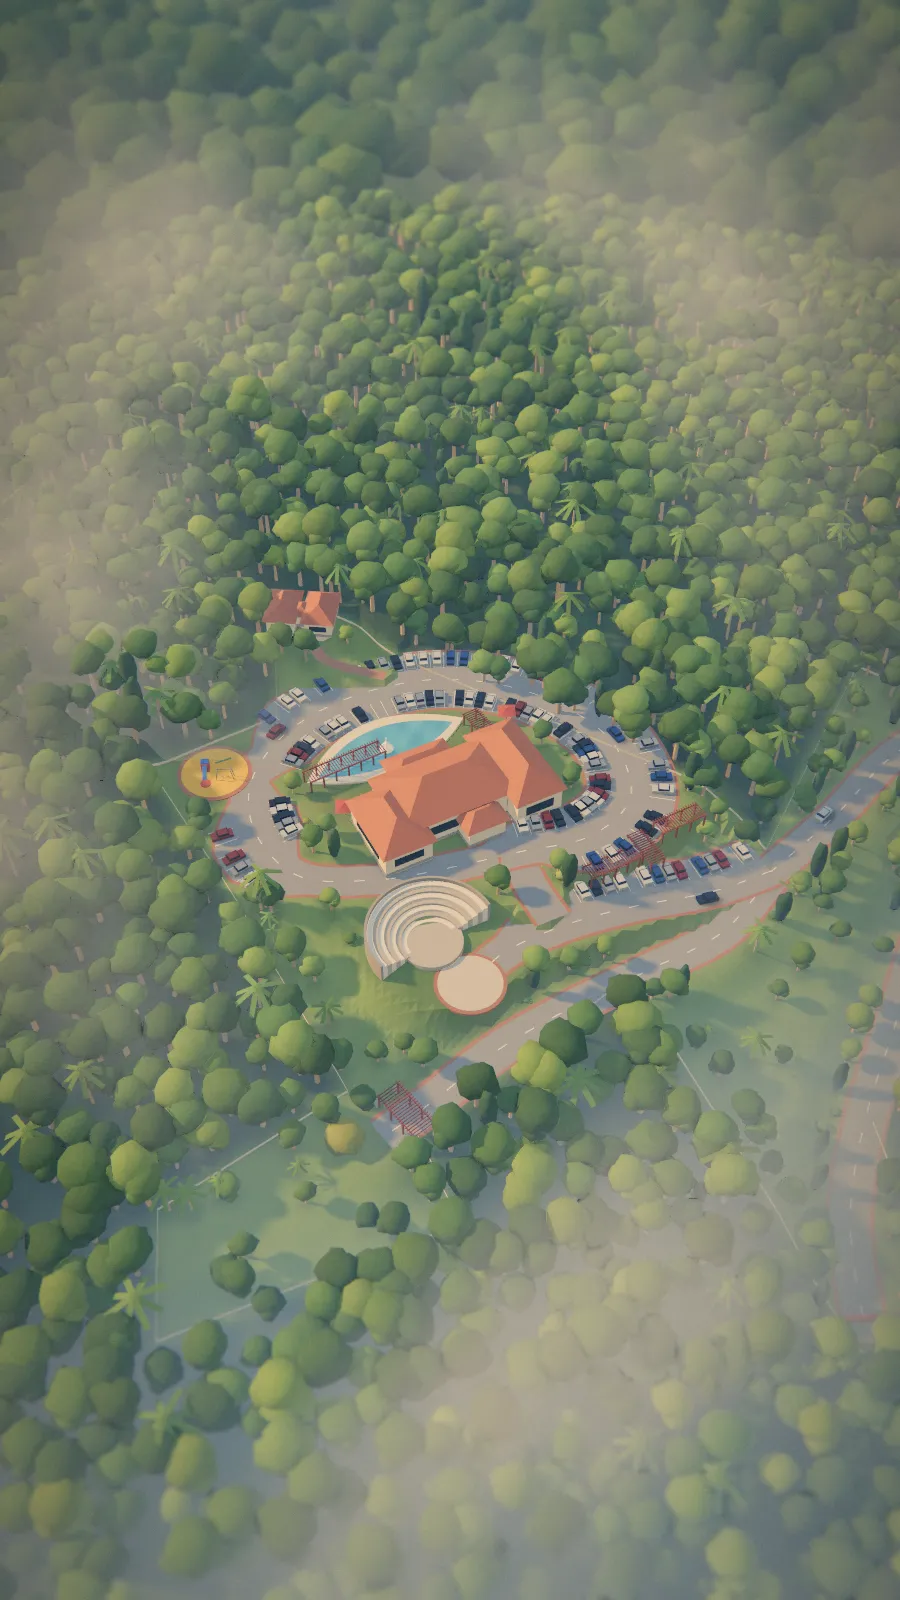
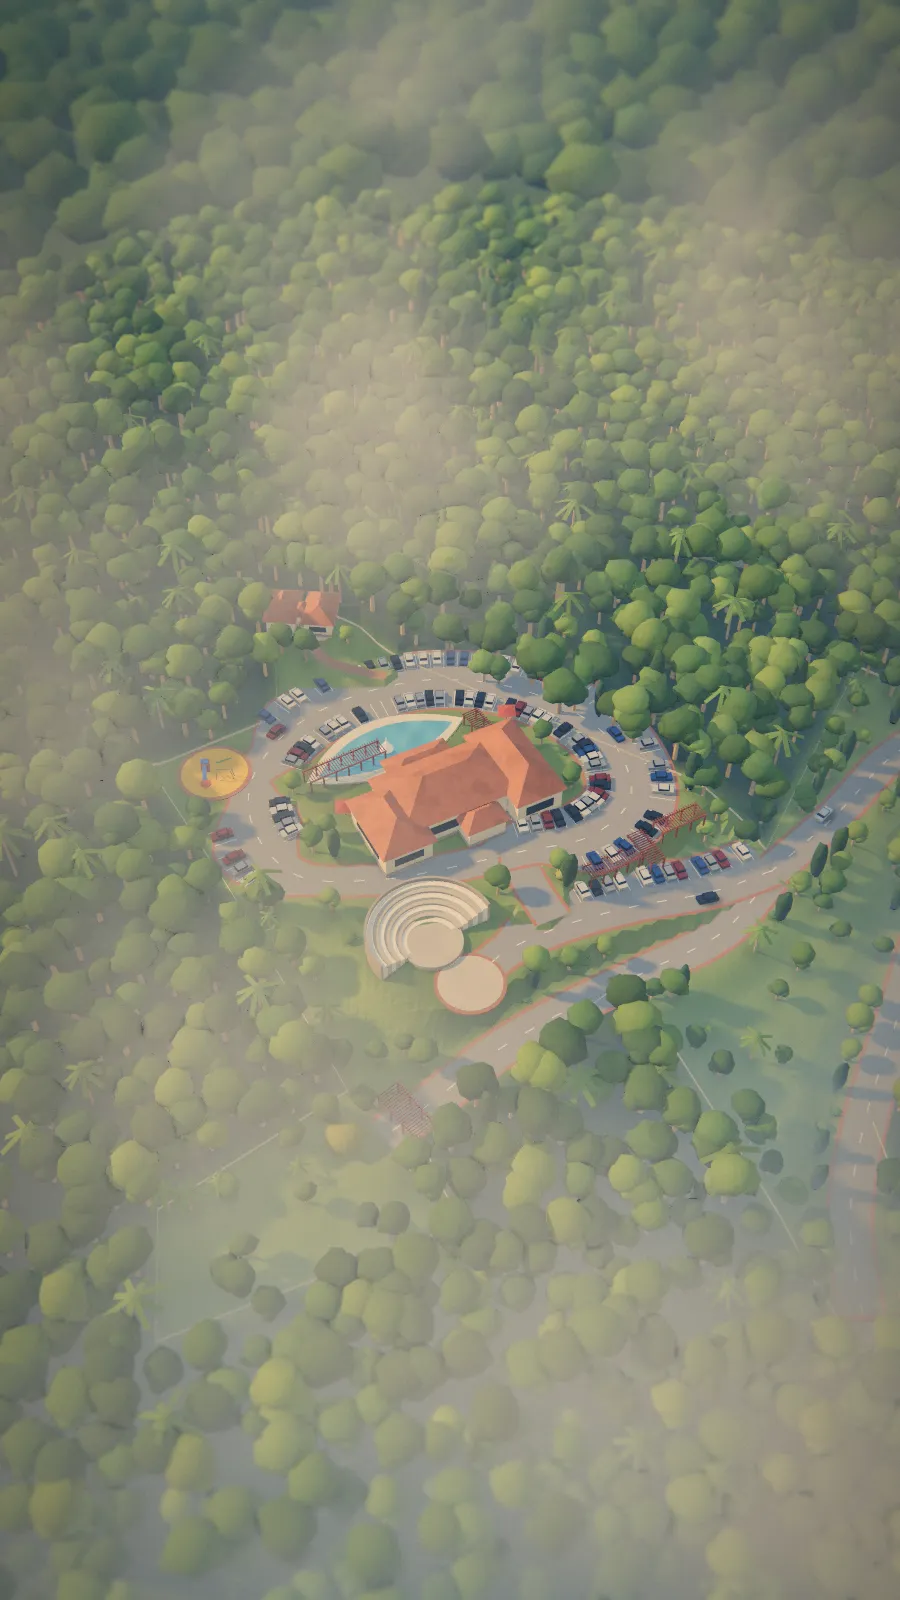
R1.3: procedural building weathering
- New weathering shader (weathering.js): patchy fading, rain streaks
  and ground grime on walls; tile variation and moss on roofs; mottled
  stone and paving; a slight cast per building. Materials are listed by
  name in CONFIG.weathering
- Hotspots: material clones keep their shader patches (weathering,
  foliage wind) instead of silently dropping them
- Poster images re-rendered
- Plan 2 document: R1 complete

diff --git a/src/hero/weathering.js b/src/hero/weathering.js
@@ -1,0 +1,88 @@
+import { CONFIG } from './config.js';
+
+/**
+ * Weathering for flat-coloured building materials (chosen by material name in CONFIG.weathering), so walls
+ * and roofs stop looking freshly painted:
+ *  - walls: broad patchy fading, faint rain streaks, and splash-back grime rising from the ground
+ *  - roofs: tile-to-tile colour variation, faint tile courses, patches of dark moss / staining
+ *  - stone & paving: mottling, fine speckle, grime at the foot of walls
+ *  - every building also gets its own slight warm / cool, lighter / darker cast
+ * All procedural in the fragment shader from world position (no textures or UVs), on every tier.
+ * Fine detail fades out with distance, so the aerial view does not shimmer.
+ * Textured artist materials should not be listed: their weathering is painted into the textures.
+ */
+const KIND = { wall: 0, roof: 1, stone: 2 };
+
+export function createWeathering() {
+  const W = CONFIG.weathering;
+  const kindOf = new Map();
+  if (W?.amount > 0) for (const k of Object.keys(KIND)) for (const name of W[k] ?? []) kindOf.set(name, k);
+  const patched = new Map(); // material.uuid -> patched clone
+
+  function patch(material) {
+    if (patched.has(material.uuid)) return patched.get(material.uuid);
+    const kind = KIND[kindOf.get(material.name)], A = Number(W.amount).toFixed(3);
+    const mat = material.clone();
+    mat.onBeforeCompile = (shader) => {
+      shader.vertexShader = shader.vertexShader
+        .replace('#include <common>', '#include <common>\nvarying vec3 vWxPos; varying float vWxBase; varying float vWxTint;')
+        .replace('#include <project_vertex>', `#include <project_vertex>
+          vWxPos = (modelMatrix * vec4(transformed, 1.0)).xyz;
+          vWxBase = modelMatrix[3].y;                                              // the building's ground level
+          vWxTint = fract(sin(dot(modelMatrix[3].xz, vec2(12.9898, 78.233))) * 43758.5453); // one random value per building`);
+      shader.fragmentShader = shader.fragmentShader
+        .replace('#include <common>', `#include <common>
+          varying vec3 vWxPos; varying float vWxBase; varying float vWxTint;
+          float wxHash(vec2 p) { return fract(sin(dot(p, vec2(127.1, 311.7))) * 43758.5453); }
+          float wxNoise(vec2 p) {
+            vec2 i = floor(p), f = fract(p);
+            f = f * f * (3.0 - 2.0 * f);
+            return mix(mix(wxHash(i), wxHash(i + vec2(1.0, 0.0)), f.x), mix(wxHash(i + vec2(0.0, 1.0)), wxHash(i + vec2(1.0, 1.0)), f.x), f.y);
+          }`)
+        .replace('#include <color_fragment>', `#include <color_fragment>
+          {
+            vec3 p = vWxPos;
+            float h = p.y - vWxBase;                                   // metres above the building's ground level
+            float px = length(fwidth(p));                              // metres covered by one pixel
+            float near = 1.0 - smoothstep(0.08, 0.3, px);              // fine detail only when close enough to resolve it
+            float broad = wxNoise(p.xz * 0.2 + p.y * 0.13);
+            float fine = wxNoise(p.xz * 5.0 + p.y * 4.0);
+            vec3 c = diffuseColor.rgb;
+            #if ${kind} == 0
+              float streak = 0.5 * (wxNoise(vec2(p.x * 2.3, p.y * 0.22)) + wxNoise(vec2(p.z * 2.3 + 7.0, p.y * 0.22 + 3.0)));
+              float splash = 1.0 - smoothstep(0.2, 1.3 + broad * 0.9, h);
+              c *= 1.0 + (broad - 0.5) * 0.16 * ${A};
+              c = mix(c, c * vec3(0.80, 0.78, 0.72), smoothstep(0.48, 0.76, streak) * 0.4 * ${A});
+              c = mix(c, c * vec3(0.64, 0.57, 0.47), splash * 0.5 * ${A});
+              c *= 1.0 + (fine - 0.5) * 0.06 * near * ${A};
+            #elif ${kind} == 1
+              float tiles = wxNoise(p.xz * 1.1);
+              float courses = 0.5 + 0.5 * sin(p.y * 20.0);
+              float moss = smoothstep(0.56, 0.86, wxNoise(p.xz * 0.33 + 11.0));
+              c *= 1.0 + ((tiles - 0.5) * 0.22 + (broad - 0.5) * 0.12) * ${A};
+              c *= 1.0 + ((fine - 0.5) * 0.12 - courses * 0.07) * near * ${A};
+              c = mix(c, c * vec3(0.52, 0.58, 0.44), moss * 0.42 * ${A});
+            #else
+              float foot = 1.0 - smoothstep(0.0, 0.5 + broad * 0.4, h);
+              c *= 1.0 + (broad - 0.5) * 0.18 * ${A} + (fine - 0.5) * 0.08 * near * ${A};
+              c = mix(c, c * vec3(0.7, 0.66, 0.58), foot * 0.3 * ${A});
+            #endif
+            // per-building cast: slightly lighter / darker and warmer / cooler
+            c *= (1.0 + (vWxTint - 0.5) * 0.09 * ${A}) * mix(vec3(1.02, 1.0, 0.97), vec3(0.98, 1.0, 1.03), fract(vWxTint * 7.3));
+            diffuseColor.rgb = c;
+          }`);
+    };
+    mat.customProgramCacheKey = () => `weathering-${kind}-${A}`;
+    patched.set(material.uuid, mat);
+    return mat;
+  }
+
+  /** Apply to every mesh under `root` whose material is listed in CONFIG.weathering. */
+  function apply(root) {
+    if (!kindOf.size) return;
+    root.traverse((o) => {
+      if (o.isMesh && o.material?.isMeshStandardMaterial && kindOf.has(o.material.name)) o.material = patch(o.material);
+    });
+  }
+  return { apply };
+}

diff --git a/src/hero/app.js b/src/hero/app.js
@@ -14,6 +14,7 @@ import { capturePresets, savePosters } from './capture.js';
 import { createFoliage } from './foliage.js';
 import { createPost } from './post.js';
 import { createTraffic, createBirds } from './life.js';
+import { createWeathering } from './weathering.js';
 
 /**
  * The interactive 3D hero. Loaded on demand by main.js (after the WebGL / data-saver checks and the
@@ -28,6 +29,7 @@ export async function startHero({ hero, page, onProgress = () => {}, onStatus = 
   const mist = createMist(scene);
   createRidges(scene);
   const foliage = createFoliage(lights.sun);
+  const weathering = createWeathering();
   const post = createPost(renderer, scene, camera);
   onResize((w, h) => post.setSize(w, h));
   const perf = createPerformance(renderer, stage, { onPixelRatio: () => post.setSize(stage.clientWidth, stage.clientHeight) });
@@ -40,6 +42,7 @@ export async function startHero({ hero, page, onProgress = () => {}, onStatus = 
 
   const site = await loadSite(renderer, (p) => onProgress(p * 0.8));
   foliage.apply(site.root);
+  weathering.apply(site.root);
   scene.add(site.root);
   const heightAt = createHeightSampler(site.terrain);
   const traffic = createTraffic(scene, site, heightAt, lights.sun);
@@ -104,6 +107,7 @@ export async function startHero({ hero, page, onProgress = () => {}, onStatus = 
   if (site.hasExtras) {
     site.loadExtras(async (part) => {
       foliage.apply(part);
+      weathering.apply(part);
       await renderer.compileAsync(part, camera, scene); // compile off-screen first, so adding it doesn't hitch
       scene.add(part);
       renderer.shadowMap.needsUpdate = true;

diff --git a/src/hero/config.js b/src/hero/config.js
@@ -131,6 +131,14 @@ export const CONFIG = {
   // heightFalloff: metres over which the distance haze thins with altitude.
   // valley: ground-hugging mist below `top` (world Y), fading over `falloff` metres, thickening over `reach` metres of view distance.
   atmosphere: { heightFalloff: 140, valley: { top: -10, falloff: 6, reach: 260 }, ridges: true },
+  // Procedural weathering for flat-coloured building materials, listed by material name (see weathering.js).
+  // amount: 0 = off, 1 = normal. Leave textured artist materials out: their weathering belongs in the textures.
+  weathering: {
+    amount: 1,
+    wall: ['Wall_Plaster'],
+    roof: ['Roof_Tile'],
+    stone: ['Wall_Stone', 'Amphi_Seat', 'Amphi_Stage', 'Pool_Deck', 'Paving_Plaza'],
+  },
   // Sun shadows on the ultra / high tiers are sharp where an object meets the ground and blur with distance from it.
   // softness = metres of blur per metre between the object and its shadow (the real sun is ~0.01; haze makes it look wider),
   // maxBlur = widest blur in metres. Samples per tier: QUALITY.softShadows [blocker search, filter]. Phones keep plain soft shadows.

diff --git a/src/hero/hotspots.js b/src/hero/hotspots.js
@@ -22,7 +22,13 @@ export function createHotspots({ camera, dom, hero, site, rig, heightAt }) {
     object.traverse((o) => {
       if (!o.isMesh) return;
       if (!own.has(o.material)) {
-        const m = o.material.name?.startsWith('Water') || !o.material.emissive ? o.material : o.material.clone();
+        let m = o.material;
+        if (!m.name?.startsWith('Water') && m.emissive) {
+          m = o.material.clone();
+          // clone() drops shader patches (weathering, foliage wind): carry them over
+          m.onBeforeCompile = o.material.onBeforeCompile;
+          m.customProgramCacheKey = o.material.customProgramCacheKey;
+        }
         own.set(o.material, m);
       }
       o.material = own.get(o.material);

diff --git a/docs/IMPLEMENTATION_PLAN_2.md b/docs/IMPLEMENTATION_PLAN_2.md
@@ -11,7 +11,7 @@ while keeping the hero fast (target: 60 fps desktop, 30+ fps mid phones, ≤ 6 M
 | Phase | Owner | Status | Summary |
 |---|---|---|---|
 | R0 Ready for an artist model | Code | ✅ 6 · ⏸ 1 | Any terrain shape, split files, foliage shader, KTX2, lightmaps, validator page. R0.7 (re-tune camera) waits for the artist's model. |
-| R1 Colour & tone | Code | ✅ 4 · 🟡 1 | AgX, real-world palette, tree tints, colour grade, three looks. Building weathering left to the artist. |
+| R1 Colour & tone | Code | ✅ 5 | AgX, real-world palette, tree tints, procedural building weathering, colour grade, three looks. |
 | R2 Lighting & sky | Code | ✅ 5 | Procedural sky reflections, fitted shadows that soften with distance, contact shadows, baked ground shade. |
 | R3 Camera effects | Code | ✅ 5 | Bloom, tilt-shift, vignette, grain, colour fringe; phones keep grade + vignette + grain. |
 | R4 Atmosphere | Code | ✅ 3 · ➖ 1 | Distance haze, valley mist, softer mist banks, horizon ridges. Sun shafts skipped. |
@@ -21,7 +21,7 @@ while keeping the hero fast (target: 60 fps desktop, 30+ fps mid phones, ≤ 6 M
 | R8 Life & motion | Code | ✅ 4 | Spline fly-in (skippable), drifting cloud shadows, moving cars and birds, settling camera moves. |
 | R9 Pipeline & performance | Both | ✅ 2 · 🟡 2 · ⏳ 1 · 🎨 1 | Poster image and three benchmark-picked tiers done; load size checked. Build script (needs Node.js), real-phone test and Lighthouse pending. |
 
-**Task count:** 29 done · 5 partial · 2 pending (code) · 17 pending (artist) · 1 waiting · 1 not built — 55 tasks in total.
+**Task count:** 30 done · 4 partial · 2 pending (code) · 17 pending (artist) · 1 waiting · 1 not built — 55 tasks in total.
 
 ### Completed so far (R0–R4, R8, R9.4, R9.5)
 - The page accepts an artist-built model without code changes, and `tools/validate-model.html` checks a model against the brief.
@@ -43,7 +43,6 @@ while keeping the hero fast (target: 60 fps desktop, 30+ fps mid phones, ≤ 6 M
 - **R5** Textured terrain, roads and paving, soft edges, rocks.
 - **R6** Leaf-card trees and palms with LODs, natural placement, hedges and flower beds.
 - **R7** Detailed convention centre, prayer hall and cabin, PBR materials, pool shell, amphitheatre, play equipment, site furniture, realistic cars.
-- **R1.3** Building weathering (comes with the textures).
 - **R9.3** Texture budget; exporting with Draco + WebP.
 
 ### Blocked until the artist delivers
@@ -64,6 +63,7 @@ while keeping the hero fast (target: 60 fps desktop, 30+ fps mid phones, ≤ 6 M
 - The no-WebGL and data-saver paths were exercised only through the `?3d=off` preview switch, not on a real device with those conditions.
 - The mobile poster was rendered from the portrait preset but not viewed on a phone.
 - The distance-based soft shadows (R2.3) were checked on the golden-hour look and the high tier; midday, overcast and their frame-rate cost on a mid-range GPU are unmeasured.
+- Building weathering (R1.3) was checked on the convention centre from one close view and the aerial view, golden-hour look only; the plot boundary wall is left out because it follows the terrain.
 - Moving cars do not cast real shadows (the shadow map is rendered once); each carries a soft blob shadow instead.
 
 ## Where the realism gap was at the start of Plan 2
@@ -113,12 +113,12 @@ The asset tasks in R5–R7 below now describe **what the artist delivers** (see 
 
 ---
 
-## Phase R1 — Colour & tone · 4 done, 1 partial
+## Phase R1 — Colour & tone · 5 of 5 done
 | # | Status | Task | Done when | Notes |
 |---|---|---|---|---|
 | R1.1 | ✅ Done | Switch tone mapping to **AgX** (or Neutral) and re-balance exposure | Highlights roll off softly; roofs no longer clip | AgX tone mapping, exposure re-balanced per look. |
 | R1.2 | ✅ Done | Re-palette all materials to measured real-world colours (terracotta roof `#a65a3a`, aged plaster `#d9cdb8`, asphalt `#5d5c58`, lawn `#5b7a34`…) | No "toy" colours remain | All materials re-coloured in `src/model/materials.js`; model re-exported. |
-| R1.3 | 🟡 Partial | Natural colour variation: per-instance tint for trees (glTF `_COLOR_0`), per-building weathering tint, lawn mottling | Forest shows mixed greens/olives/yellows | Done: per-tree tint, lawn dry patches and speckle. **Not done:** per-building weathering tint (left to the artist's textures). |
+| R1.3 | ✅ Done | Natural colour variation: per-instance tint for trees (glTF `_COLOR_0`), per-building weathering tint, lawn mottling | Forest shows mixed greens/olives/yellows | Per-tree tint, lawn dry patches and speckle; building weathering is a procedural shader (`src/hero/weathering.js`): patchy fading, rain streaks and ground grime on walls, tile variation and moss patches on roofs, mottled stone and paving, and a slight cast per building. Materials are listed by name in `CONFIG.weathering`; set `amount: 0` or drop a name once the artist's textured version of it arrives. |
 | R1.4 | ✅ Done | Colour-grading pass (LUT or lift/gamma/gain shader): warm highlights, cool shadows, slight desaturation of greens | Matches the reference render's mood | Shader grade (split-toning, contrast, green taming) in `post.js`, not a LUT file. |
 | R1.5 | ✅ Done | Time-of-day presets in config (golden hour default, midday, overcast) | One-line switch | `golden` (default), `midday`, `overcast`; try with `?look=`. Overcast's final fog tweak and the midday/overcast haze were not re-checked visually. |
 
